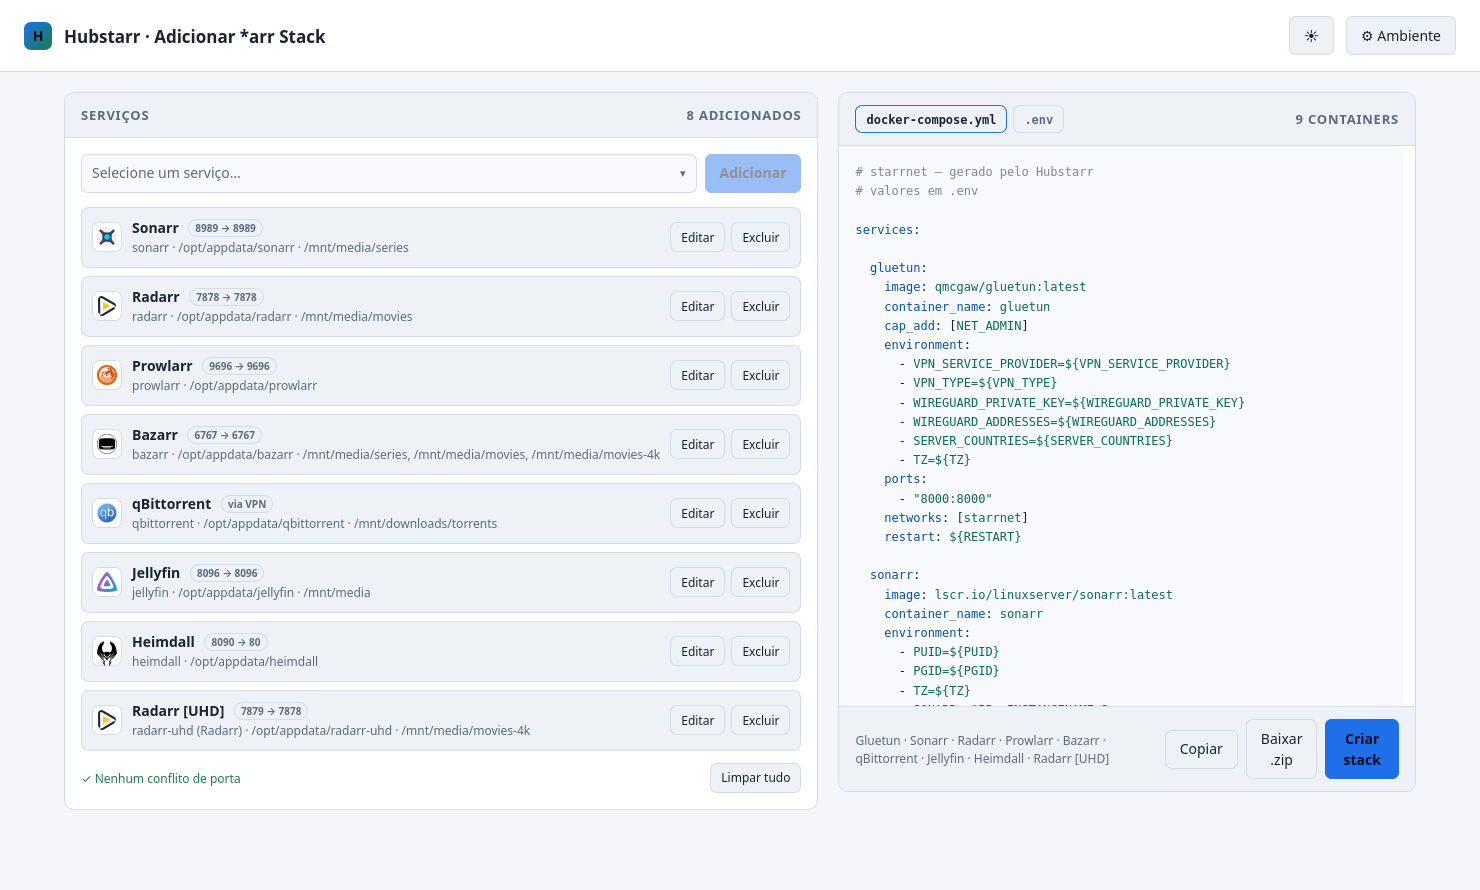
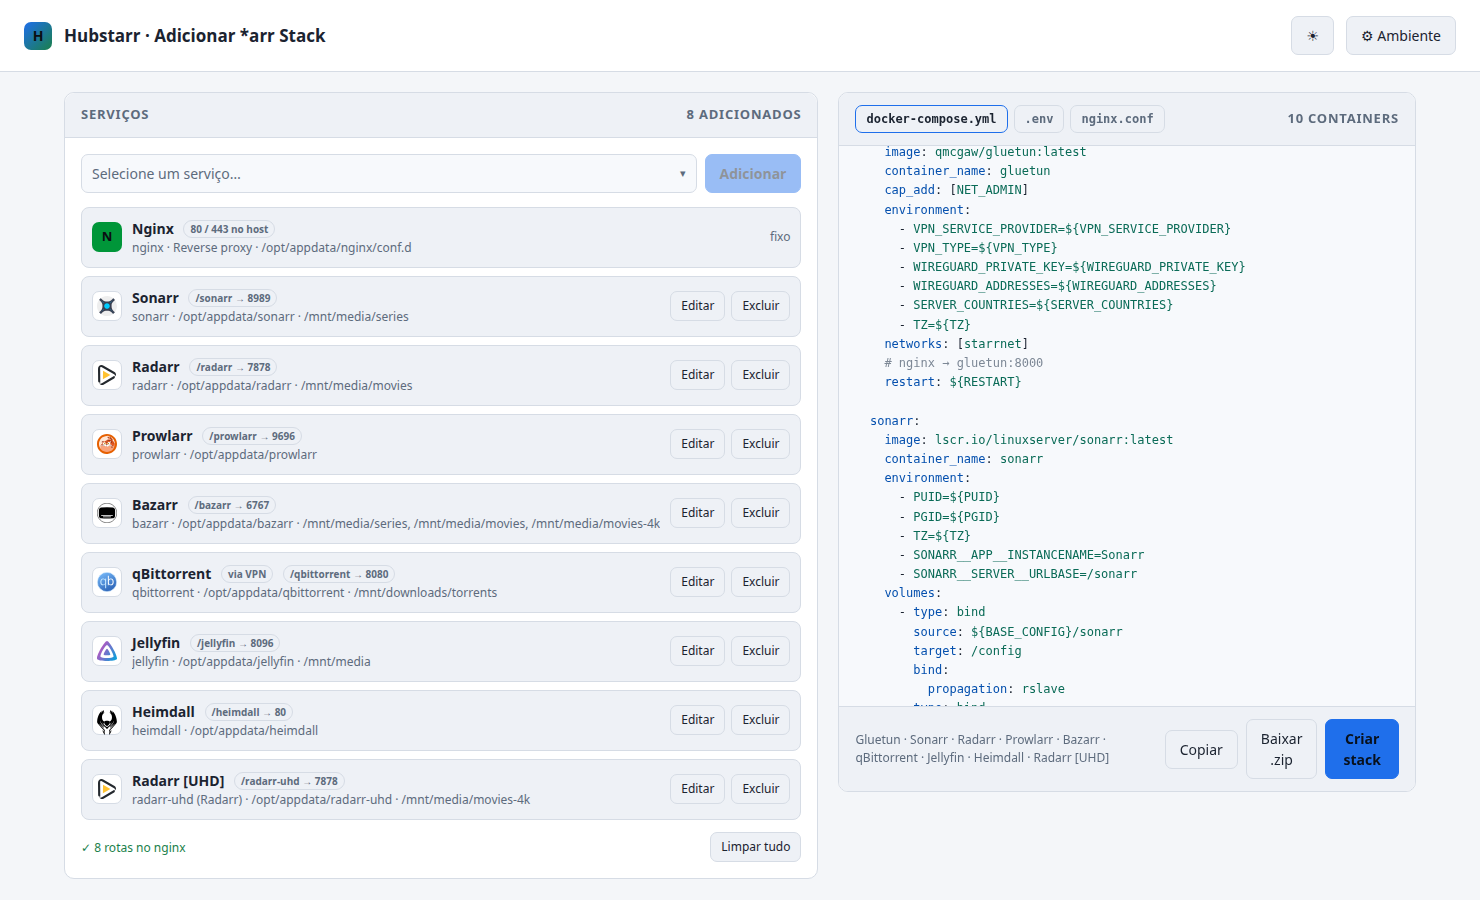
Coloca a stack atrás de um nginx fixo
Nenhum serviço publica portas: só o nginx, que é obrigatório na stack, expõe
80 e 443 e alcança os demais pela rede starrnet. A porta no host deixou de ser
configurável — some do modal, do modelo e da checagem de conflito, que virou a
contagem de rotas.

Nova aba nginx.conf gera um location por serviço, roteando por subpath, e o
arquivo entra no .zip. Sonarr, Radarr, Lidarr e Prowlarr recebem
<APP>__SERVER__URLBASE com o mesmo subpath.

Remove o Jellyseerr, já coberto pelo Seerr.

Claude-Session: https://claude.ai/code/session_015LuLcnjAzBdqJZcLS8RGMy

diff --git a/arr-stack-prototype.html b/arr-stack-prototype.html
@@ -172,11 +172,13 @@
       <span class="tabs">
         <button class="tab on" data-tab="yml">docker-compose.yml</button>
         <button class="tab" data-tab="env">.env</button>
+        <button class="tab" data-tab="nginx">nginx.conf</button>
       </span>
       <span id="stat"></span>
     </h2>
     <pre id="out"></pre>
     <pre id="outEnv" style="display:none"></pre>
+    <pre id="outNginx" style="display:none"></pre>
     <div class="bar">
       <span class="hint" id="summary"></span>
       <span class="sp"></span>
@@ -252,11 +254,8 @@
     <div class="body">
       <div class="row" id="mNameRow"><label for="mName">Título</label>
         <input type="text" id="mName" placeholder="Nome da instância"></div>
-      <div class="row"><label for="mPort">Porta no host</label>
-        <div style="display:flex;gap:8px;align-items:center">
-          <input type="text" id="mPort">
-          <span class="hint" style="white-space:nowrap">→ interna <b id="mInner"></b> (fixa)</span>
-        </div>
+      <div class="row"><label>Porta</label>
+        <span class="hint">interna <b id="mInner"></b> (fixa) — publicada só pelo nginx</span>
       </div>
       <div class="row" id="mDataRow"><label for="mData" id="mDataLabel">Subpasta de mídia</label>
         <div style="display:flex;gap:8px;align-items:center">
@@ -288,18 +287,21 @@ const SERVICES = [
   {id:'qbittorrent',name:'qBittorrent',desc:'Cliente torrent',  port:8080, img:'lscr.io/linuxserver/qbittorrent:latest',color:'#4f9cf9', media:true, vpn:true, mdir:'torrents', dlClient:true},
   {id:'sabnzbd',  name:'SABnzbd',   desc:'Cliente Usenet',      port:8080, img:'lscr.io/linuxserver/sabnzbd:latest',   color:'#f2c94c', media:true, vpn:true, mdir:'usenet', dlClient:true},
   {id:'jellyfin', name:'Jellyfin',  desc:'Media server',        port:8096, img:'lscr.io/linuxserver/jellyfin:latest',  color:'#7b68ee', media:true, mdir:''},
-  {id:'jellyseerr',name:'Jellyseerr',desc:'Pedidos de mídia',   port:5055, img:'fallenbagel/jellyseerr:latest',        color:'#35c48a'},
   {id:'seerr',    name:'Seerr',     desc:'Pedidos de mídia',   port:5055, img:'ghcr.io/seerr-team/seerr:latest',      color:'#6d5ef5'},
-  {id:'heimdall', name:'Heimdall',  desc:'Painel de atalhos',   port:8090, img:'lscr.io/linuxserver/heimdall:latest', color:'#d64b3f', inner:80},
+  {id:'heimdall', name:'Heimdall',  desc:'Painel de atalhos',   port:80,   img:'lscr.io/linuxserver/heimdall:latest', color:'#d64b3f'},
   {id:'flaresolverr',name:'FlareSolverr',desc:'Bypass Cloudflare',port:8191,img:'ghcr.io/flaresolverr/flaresolverr:latest',color:'#ff7f50',noVol:true},
   {id:'gluetun',  name:'Gluetun',   desc:'Cliente VPN',         port:8000, img:'qmcgaw/gluetun:latest',                color:'#8b98a5', noVol:true},
 ];
 const svc = id => SERVICES.find(s=>s.id===id);
-// porta dentro do container (só difere quando o serviço declara `inner`)
-const inner = id => svc(id).inner || svc(id).port;
+// porta em que o serviço escuta dentro do container — o nginx fala com ela
+const inner = id => svc(id).port;
 
 // serviços que suportam nome de instância (*__APP__INSTANCENAME)
 const INSTANCE_ENV = {sonarr:'SONARR__APP__INSTANCENAME', radarr:'RADARR__APP__INSTANCENAME'};
+
+// base URL do app, que precisa bater com o subpath roteado pelo nginx
+const URLBASE_ENV = {sonarr:'SONARR__SERVER__URLBASE', radarr:'RADARR__SERVER__URLBASE',
+                     lidarr:'LIDARR__SERVER__URLBASE', prowlarr:'PROWLARR__SERVER__URLBASE'};
 
 /* logotipos SVG do dashboardicons.com, embutidos como data URI (funciona offline).
    Se algum id não tiver ícone, cai para a inicial sobre a cor do serviço. */
@@ -312,7 +314,6 @@ const ICONS = {
[7 lines of base64/hex data omitted]
@@ -335,6 +336,11 @@ function icoFail(img){
 const STACK = 'starrnet';
 const NETWORK = 'starrnet';
 
+/* reverse proxy fixo da stack: sempre presente, não sai no combobox e não pode
+   ser removido. É o único container que publica portas no host. */
+const NGINX = {id:'nginx', name:'Nginx', desc:'Reverse proxy',
+               img:'nginx:alpine', color:'#009639', http:80, https:443};
+
 const DEFAULTS = {restart:'unless-stopped',
                   cfg:'/opt/appdata', data:'/mnt/media', dl:'/mnt/downloads',
                   puid:'1000', pgid:'1000', tz:'America/Sao_Paulo',
@@ -346,7 +352,7 @@ const DEFAULTS = {restart:'unless-stopped',
 const MULTI = ['sonarr','radarr','lidarr','bazarr','prowlarr'];
 const isMulti = id => MULTI.includes(id);
 
-// serviços adicionados: [{id, title, port, cfg, data, tz, vpn}]
+// serviços adicionados: [{id, title, data, vpn}]
 let added = [];
 let picked = null;   // id selecionado no combobox
 let editing = null;  // key da instância em edição (null = adicionando)
@@ -380,7 +386,7 @@ const dataReal = a => {
 };
 // serviço bloqueado no combobox: instância única já adicionada
 const locked = id => !isMulti(id) && has(id);
-const defCfg = id => ({id, title:svc(id).name, port:String(svc(id).port),
+const defCfg = id => ({id, title:svc(id).name,
                        data:svc(id).mdir||'', vpn:false});
 
 /* ---------- combobox ---------- */
@@ -424,14 +430,26 @@ document.addEventListener('click', e=>{
 /* ---------- lista de serviços ---------- */
 function renderItems(){
   const box = $('#items');
-  box.innerHTML = added.length ? added.map(a=>{
+  // o reverse proxy é fixo: aparece sempre, sem editar nem excluir
+  const fixed = `<div class="item">
+      ${icoHtml(NGINX)}
+      <div class="meta">
+        <div class="nm">${NGINX.name}
+          <span class="tag">${NGINX.http} / ${NGINX.https} no host</span>
+        </div>
+        <div class="ds">${NGINX.id} · ${NGINX.desc} · ${DEFAULTS.cfg}/${NGINX.id}/conf.d</div>
+      </div>
+      <div class="acts"><span class="hint">fixo</span></div>
+    </div>`;
+
+  box.innerHTML = fixed + (added.length ? added.map(a=>{
     const s = svc(a.id);
     return `<div class="item" data-key="${cname(a)}">
       ${icoHtml(s)}
       <div class="meta">
         <div class="nm">${a.title || s.name}
-          ${a.vpn?'<span class="tag">via VPN</span>'
-                 :`<span class="tag">${a.port} → ${inner(a.id)}</span>`}
+          ${a.vpn?'<span class="tag">via VPN</span>':''}
+          <span class="tag">/${cname(a)} → ${inner(a.id)}</span>
         </div>
         <div class="ds">${cname(a)}${(a.title && a.title!==s.name)?' ('+s.name+')':''}${s.noVol?' · '+s.desc:' · '+cfgReal(a)}${s.media&&!s.noVol?' · '+dataReal(a):''}</div>
       </div>
@@ -440,7 +458,7 @@ function renderItems(){
         <button class="sm danger" data-act="del">Excluir</button>
       </div>
     </div>`;
-  }).join('') : `<div class="empty">Nenhum serviço adicionado.<br>Escolha um no combobox acima e clique em <b>Adicionar</b>.</div>`;
+  }).join('') : `<div class="empty">Nenhum serviço adicionado.<br>Escolha um no combobox acima e clique em <b>Adicionar</b>.</div>`);
   $('#count').textContent = added.length + ' adicionados';
   $('#clear').disabled = !added.length;
   $('#clear').textContent = 'Limpar tudo';
@@ -503,7 +521,7 @@ function openModal(id, key){
   const nth = added.filter(a=>a.id===id).length + 1;
   $('#mName').value = isEdit ? cur.title
     : (isMulti(id) && has(id)) ? `${s.name} ${nth}` : s.name;
-  $('#mPort').value = cur.port; $('#mData').value = cur.data;
+  $('#mData').value = cur.data;
   $('#mInner').textContent = inner(id);   // porta original do serviço, nunca muda
   $('#mVpn').checked = cur.vpn;
   $('#mDataBase').textContent = (s.dlClient ? DEFAULTS.dl : DEFAULTS.data) + '/';
@@ -514,7 +532,7 @@ function openModal(id, key){
   $('#mWarn').textContent = '';
   $('#mSave').textContent = isEdit ? 'Salvar' : 'Concluir';
   $('#backdrop').classList.add('open');
-  $('#mPort').focus();
+  $('#mName').focus();
 }
 function closeModal(){ $('#backdrop').classList.remove('open'); editing=null; }
 
@@ -534,12 +552,9 @@ const warn = msg => $('#mWarn').innerHTML = `<span class="warn">${msg}</span>`;
 $('#mSave').onclick = ()=>{
   const id = editing ? byKey(editing).id : picked;
   const s = svc(id);
-  const port = $('#mPort').value.trim();
-  if(!/^\d+$/.test(port)) return warn('Porta inválida');
-
   const useName = isMulti(id) || INSTANCE_ENV[id];
   const cfg = {id, title:(useName ? $('#mName').value.trim() : '') || s.name,
-               port, data:slug($('#mData').value),
+               data:slug($('#mData').value),
                vpn: s.vpn && $('#mVpn').checked};
 
   const key = cname(cfg);
@@ -616,15 +631,6 @@ function effective(){
   return list;
 }
 
-function checkConflicts(list){
-  const seen={}, dup=[];
-  list.filter(a=>!a.vpn).forEach(a=>{
-    const n = a.title || svc(a.id).name;
-    if(seen[a.port]) dup.push(`${a.port} (${seen[a.port]} / ${n})`); else seen[a.port]=n;
-  });
-  return dup;
-}
-
 function build(){
   const restart = '${RESTART}';
   const list = effective();
@@ -632,8 +638,25 @@ function build(){
   const L=[];
   L.push(`<span class="c"># ${STACK} — gerado pelo Hubstarr</span>`);
   L.push(`<span class="c"># valores em .env</span>`);
+  L.push(`<span class="c"># só o nginx publica portas; o resto é alcançado na rede ${NETWORK}</span>`);
   L.push(``);
   L.push(`<span class="k">services</span>:`);
+
+  // reverse proxy fixo: único serviço com portas publicadas
+  L.push(``);
+  L.push(`  <span class="k">${NGINX.id}</span>:`);
+  L.push(`    <span class="k">image</span>: <span class="v">${NGINX.img}</span>`);
+  L.push(`    <span class="k">container_name</span>: <span class="v">${NGINX.id}</span>`);
+  L.push(`    <span class="k">ports</span>:`);
+  L.push(`      - <span class="v">"${NGINX.http}:80"</span>`);
+  L.push(`      - <span class="v">"${NGINX.https}:443"</span>`);
+  L.push(`    <span class="k">volumes</span>:`);
+  L.push(`      - <span class="k">type</span>: <span class="v">bind</span>`);
+  L.push(`        <span class="k">source</span>: <span class="v">\${BASE_CONFIG}/${NGINX.id}/conf.d</span>`);
+  L.push(`        <span class="k">target</span>: <span class="v">/etc/nginx/conf.d</span>`);
+  L.push(`        <span class="k">read_only</span>: <span class="v">true</span>`);
+  L.push(`    <span class="k">networks</span>: [<span class="v">${NETWORK}</span>]`);
+  L.push(`    <span class="k">restart</span>: <span class="v">${restart}</span>`);
 
   list.forEach(a=>{
     const s = svc(a.id);
@@ -662,6 +685,8 @@ function build(){
       L.push(`      - <span class="v">TZ=\${TZ}</span>`);
       if(INSTANCE_ENV[s.id] && a.title)
         L.push(`      - <span class="v">${INSTANCE_ENV[s.id]}=${a.title}</span>`);
+      if(URLBASE_ENV[s.id])
+        L.push(`      - <span class="v">${URLBASE_ENV[s.id]}=/${cname(a)}</span>`);
     }
     if(!s.noVol){
       // sintaxe longa: bind mount com propagação rslave
@@ -689,26 +714,64 @@ function build(){
     if(a.vpn){
       L.push(`    <span class="k">network_mode</span>: <span class="v">service:gluetun</span>`);
       L.push(`    <span class="k">depends_on</span>: [<span class="v">gluetun</span>]`);
-      L.push(`    <span class="c"># ${a.port}:${inner(a.id)} publicada pelo gluetun</span>`);
+      L.push(`    <span class="c"># nginx → gluetun:${inner(a.id)}</span>`);
     } else {
-      L.push(`    <span class="k">ports</span>:`);
-      L.push(`      - <span class="v">"${a.port}:${inner(a.id)}"</span>`);
       L.push(`    <span class="k">networks</span>: [<span class="v">${NETWORK}</span>]`);
+      L.push(`    <span class="c"># nginx → ${cname(a)}:${inner(a.id)}</span>`);
     }
     L.push(`    <span class="k">restart</span>: <span class="v">${restart}</span>`);
   });
-
-  const fw = list.filter(a=>a.vpn).map(a=>`"${a.port}:${inner(a.id)}"`);
-  if(fw.length){
-    L.push(``);
-    L.push(`<span class="c"># gluetun publica: ${fw.join(', ')}</span>`);
-  }
 
   L.push(``);
   L.push(`<span class="k">networks</span>:`);
   L.push(`  <span class="k">${NETWORK}</span>:`);
   L.push(`    <span class="k">driver</span>: <span class="v">bridge</span>`);
   return {html:L.join('\n'), list};
+}
+
+/* nginx.conf — um location por serviço, roteando por subpath.
+   O upstream é o próprio container na rede da stack; quem roteia pela VPN
+   responde no gluetun, que é quem detém a rede. */
+function buildNginx(list){
+  const N=[];
+  N.push(`<span class="c"># ${STACK} — gerado pelo Hubstarr</span>`);
+  N.push(`<span class="c"># montar em \${BASE_CONFIG}/${NGINX.id}/conf.d/${STACK}.conf</span>`);
+  N.push(``);
+  N.push(`<span class="k">server</span> {`);
+  N.push(`  <span class="k">listen</span> <span class="v">80</span>;`);
+  N.push(`  <span class="k">server_name</span> <span class="v">_</span>;`);
+  N.push(``);
+  N.push(`  <span class="k">client_max_body_size</span> <span class="v">0</span>;`);
+
+  const items = list.filter(a=>a.id!=='gluetun');
+  if(!items.length){
+    N.push(``);
+    N.push(`  <span class="c"># nenhum serviço adicionado ainda</span>`);
+  }
+  items.forEach(a=>{
+    const host = a.vpn ? 'gluetun' : cname(a);
+    const path = cname(a);
+    N.push(``);
+    N.push(`  <span class="c"># ${a.title || svc(a.id).name}</span>`);
+    N.push(`  <span class="k">location</span> <span class="v">/${path}</span> {`);
+    N.push(`    <span class="k">proxy_pass</span> <span class="v">http://${host}:${inner(a.id)}</span>;`);
+    N.push(`    <span class="k">proxy_set_header</span> <span class="v">Host $host</span>;`);
+    N.push(`    <span class="k">proxy_set_header</span> <span class="v">X-Real-IP $remote_addr</span>;`);
+    N.push(`    <span class="k">proxy_set_header</span> <span class="v">X-Forwarded-For $proxy_add_x_forwarded_for</span>;`);
+    N.push(`    <span class="k">proxy_set_header</span> <span class="v">X-Forwarded-Proto $scheme</span>;`);
+    N.push(`    <span class="k">proxy_http_version</span> <span class="v">1.1</span>;`);
+    N.push(`    <span class="k">proxy_set_header</span> <span class="v">Upgrade $http_upgrade</span>;`);
+    N.push(`    <span class="k">proxy_set_header</span> <span class="v">Connection $http_connection</span>;`);
+    N.push(`  }`);
+  });
+
+  N.push(`}`);
+  if(items.length){
+    N.push(``);
+    N.push(`<span class="c"># cada app precisa da base URL igual ao seu subpath — quem não recebe</span>`);
+    N.push(`<span class="c"># a variável no compose tem que configurar na própria interface</span>`);
+  }
+  return N.join('\n');
 }
 
 function buildEnv(list){
@@ -749,25 +812,28 @@ function render(){
   const {html, list} = build();
   $('#out').innerHTML = html;
   $('#outEnv').innerHTML = buildEnv(list);
-  const dup = checkConflicts(list);
+  $('#outNginx').innerHTML = buildNginx(list);
+  const routes = list.filter(a=>a.id!=='gluetun').length;
   $('#conflicts').innerHTML = !added.length ? ''
-    : dup.length ? `<span class="warn">⚠ Conflito de porta: ${dup.join('; ')}</span>`
-                 : `<span class="ok">✓ Nenhum conflito de porta</span>`;
-  $('#stat').textContent = list.length + ' containers';
+    : `<span class="ok">✓ ${routes} ${routes===1?'rota':'rotas'} no nginx</span>`;
+  const n = list.length + 1;   // +1: nginx fixo
+  $('#stat').textContent = n + (n===1 ? ' container' : ' containers');
   $('#summary').textContent = list.map(a=>a.title||svc(a.id).name).join(' · ') || 'nenhum serviço adicionado';
 }
 
 let tab = 'yml';
+const PANES = {yml:'#out', env:'#outEnv', nginx:'#outNginx'};
 document.querySelectorAll('.tab').forEach(t=>t.onclick=()=>{
   tab = t.dataset.tab;
   document.querySelectorAll('.tab').forEach(x=>x.classList.toggle('on', x===t));
-  $('#out').style.display    = tab==='yml' ? 'block' : 'none';
-  $('#outEnv').style.display = tab==='env' ? 'block' : 'none';
+  Object.entries(PANES).forEach(([k,sel])=>
+    $(sel).style.display = k===tab ? 'block' : 'none');
   $('#copy').textContent = 'Copiar';
 });
 
-const plain    = ()=> $('#out').textContent;
-const plainEnv = ()=> $('#outEnv').textContent;
+const plain      = ()=> $('#out').textContent;
+const plainEnv   = ()=> $('#outEnv').textContent;
+const plainNginx = ()=> $('#outNginx').textContent;
 
 function download(name, text, type){
   const a=document.createElement('a');
@@ -776,7 +842,7 @@ function download(name, text, type){
 }
 
 $('#copy').onclick = async e=>{
-  await navigator.clipboard.writeText(tab==='yml' ? plain() : plainEnv());
+  await navigator.clipboard.writeText($(PANES[tab]).textContent);
   e.target.textContent='Copiado ✓'; setTimeout(()=>e.target.textContent='Copiar',1500);
 };
 /* ZIP mínimo (método "store", sem compressão) — evita dependências externas */
@@ -843,6 +909,7 @@ $('#dl').onclick = ()=>{
   const blob = makeZip([
     {name:'docker-compose.yml', text:plain()+'\n'},
     {name:'.env',               text:plainEnv()+'\n'},
+    {name:`nginx/conf.d/${STACK}.conf`, text:plainNginx()+'\n'},
   ]);
   const a=document.createElement('a');
   a.href=URL.createObjectURL(blob); a.download=`${stack}.zip`; a.click();

diff --git a/README.md b/README.md
@@ -11,19 +11,23 @@ autocontido (os logotipos vêm embutidos como data URI).
 
 O combobox lista os serviços disponíveis com seus logotipos e portas padrão:
 
-![O combobox aberto, mostrando os treze serviços disponíveis](docs/services.png)
+![O combobox aberto, mostrando os doze serviços disponíveis](docs/services.png)
 
 ## O que dá para fazer
 
 - **Escolher serviços** num combobox com logotipos e adicioná-los à stack.
-- **Configurar cada instância** num modal: título, porta no host, subpasta de
-  mídia/downloads e roteamento pela VPN.
+- **Configurar cada instância** num modal: título, subpasta de mídia/downloads
+  e roteamento pela VPN.
 - **Múltiplas instâncias** de Sonarr, Radarr, Lidarr, Bazarr e Prowlarr —
   basta o título ser diferente. Sonarr e Radarr recebem também
   `SONARR__APP__INSTANCENAME` / `RADARR__APP__INSTANCENAME`.
+- **Base URL automática**: Sonarr, Radarr, Lidarr e Prowlarr recebem
+  `<APP>__SERVER__URLBASE=/<container_name>`, já casando com o subpath do
+  nginx. O Bazarr não expõe essa variável — a base fica na interface dele.
 - **Ambiente global** (botão no topo): bases de caminho, PUID/PGID, timezone,
   nome da stack, restart policy e as credenciais do gluetun.
-- **Baixar** `docker-compose.yml` e `.env` juntos num `.zip`.
+- **Baixar** `docker-compose.yml`, `.env` e `nginx/conf.d/starrnet.conf` juntos
+  num `.zip`.
 
 ## Convenções geradas
 
@@ -46,15 +50,27 @@ Os caminhos saem como variáveis resolvidas pelo `.env`:
   `/downloads`, para conseguirem importar.
 
 Todos os volumes usam a sintaxe longa, com `type: bind` e
-`bind.propagation: rslave`. A porta interna do container é sempre a original do
-serviço — só a porta publicada no host é editável, e conflitos são apontados na
-própria interface.
+`bind.propagation: rslave`. A porta é sempre a original do serviço, dentro do
+container: não há porta de host para escolher, nem conflito possível.
+
+## Reverse proxy
+
+O nginx é fixo e obrigatório: entra sempre na stack, não aparece no combobox e
+não pode ser removido. É o único container que publica portas no host (80 e
+443) — todos os outros ficam só na rede `starrnet`, alcançados pelo nginx por
+`nome-do-container:porta-interna`. Quem roteia pela VPN responde no `gluetun`,
+que é quem detém a rede.
+
+A aba **nginx.conf** gera a configuração correspondente, roteando por subpath
+(`/sonarr`, `/radarr`…), um `location` por serviço. O arquivo é montado em
+`${BASE_CONFIG}/nginx/conf.d` e cada app precisa da sua *base URL* igual ao
+subpath.
 
 ## VPN
 
 Marcar um cliente como "rotear pelo gluetun" faz o serviço usar
 `network_mode: service:gluetun`; o gluetun é adicionado à stack
-automaticamente e publica as portas por ele. As credenciais
+automaticamente e passa a ser o endereço desse serviço no nginx. As credenciais
 (`VPN_SERVICE_PROVIDER`, `VPN_TYPE`, chaves do WireGuard ou usuário/senha do
 OpenVPN, `SERVER_COUNTRIES`) ficam no `.env`.
 
